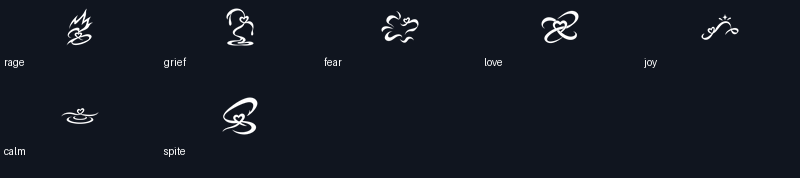
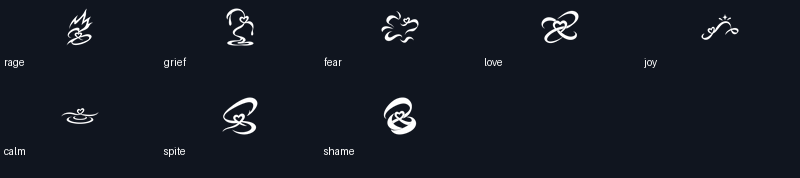
art: draw Shame feeling as an inward-folded ribbon

Changed region(s): [[0.4688, 0.5337, 0.5312, 0.7584], [0.4062, 0.8146, 0.4688, 0.8708]]

diff --git a/art/_archive/deliveries/2026-11-12/HANDOFF.md b/art/_archive/deliveries/2026-11-12/HANDOFF.md
@@ -2,13 +2,13 @@
 
 **Destination: `art/briefs-complete`; keep develop and the implementer branch untouched.** The prompt file was found on `claude/charming-gauss-hbq4n0` at `dd35e4b8`; it was safely fast-forwarded into this art branch. No force pushes. Fetch current refs and preserve any subsequent implementer work before continuing.
 
-Actual delivered: **22/77**. Every delivered image was generated with image_gen, shown in chat, technically exported, validated, committed and pushed before the next render. New art is review-candidate with production_approved:false. The exact delivered list is progress.json; production selections and source/reference hashes are manifest.json.
+Actual delivered: **23/77**. Every delivered image was generated with image_gen, shown in chat, technically exported, validated, committed and pushed before the next render. New art is review-candidate with production_approved:false. The exact delivered list is progress.json; production selections and source/reference hashes are manifest.json.
 
 ## Next work
 
-Next image: **`feeling-shame`**.
+Next image: **`feeling-pride`**.
 
-Remaining ordered queue: `feeling-shame`, `feeling-pride`, `feeling-despair`, `feeling-hope`, `feeling-mercy`, `feeling-cruelty`, `feeling-loneliness`, `feeling-belonging`, `feeling-dread`, `feeling-awe`, `feeling-longing`, `feeling-relief`, `feeling-contempt`, `feeling-guilt`, `feeling-jealousy`, `feeling-wonder`, `feeling-defiance`, `feeling-abandon`, `module-move`, `module-homing`, `module-swift`, `module-ether`, `module-right`, `module-left`, `module-time`, `module-inverse`, `module-size`, `module-random`, `module-at_once`, `module-wave`, `module-burst`, `module-aura`, `module-lance`, `module-fuse`, `module-return`, `module-volley`, `module-bloom`, `module-anchor`, `module-lure`, `module-shell`, `module-linger`, `module-quiet`, `module-silent`, `module-thread`, `module-cascade`, `module-tether`, `module-siphon`, `module-phantom`, `module-volatile`, `module-bastion`, `module-judgement_mark`, `module-halo`, `ui-revert`, `ui-practice`, `ui-felt`.
+Remaining ordered queue: `feeling-pride`, `feeling-despair`, `feeling-hope`, `feeling-mercy`, `feeling-cruelty`, `feeling-loneliness`, `feeling-belonging`, `feeling-dread`, `feeling-awe`, `feeling-longing`, `feeling-relief`, `feeling-contempt`, `feeling-guilt`, `feeling-jealousy`, `feeling-wonder`, `feeling-defiance`, `feeling-abandon`, `module-move`, `module-homing`, `module-swift`, `module-ether`, `module-right`, `module-left`, `module-time`, `module-inverse`, `module-size`, `module-random`, `module-at_once`, `module-wave`, `module-burst`, `module-aura`, `module-lance`, `module-fuse`, `module-return`, `module-volley`, `module-bloom`, `module-anchor`, `module-lure`, `module-shell`, `module-linger`, `module-quiet`, `module-silent`, `module-thread`, `module-cascade`, `module-tether`, `module-siphon`, `module-phantom`, `module-volatile`, `module-bastion`, `module-judgement_mark`, `module-halo`, `ui-revert`, `ui-practice`, `ui-felt`.
 
 Read `art/AGENTS.md`, `art/README.md`, `art/style-guide/PHC-Style-Guide.md`, `art/icons/STYLE-LOCK.md`, `art/briefs/GPT-PROMPTS-2026-11-12.md` and its linked current request/rules documents. Read queue.json in this folder: it contains exact prompts, reference paths and delivered flags. **Do not skip Both Hands just because its id exists:** its replacement is already delivered here and its stand-in is preserved in art/_archive/icons/perks/2026-11-12/. Do not rely on the Wick section heading13: the table and ART-REQUESTS enumerate11 (Rebuke, Both Hands, nine Calls).
 

diff --git a/art/_archive/deliveries/2026-11-12/README.md b/art/_archive/deliveries/2026-11-12/README.md
@@ -2,4 +2,4 @@
 
 Review candidates; production_approved:false. Source branch: claude/charming-gauss-hbq4n0, dd35e4b8. Destination: art/briefs-complete. The brief heading says13 Wick icons, but its table and ART-REQUESTS enumerate11. This run covers those11 plus25 feelings,38 modules and3 UI marks. Leon approved both test-set styles for continued production. Optional maps require current tile guides. No planned equipment or campaign maps are drawn.
 
-Delivered: 22/77. See progress.json, manifest.json, queue.json, prompts/, sources/, masters/v1/ and reviews/.
+Delivered: 23/77. See progress.json, manifest.json, queue.json, prompts/, sources/, masters/v1/ and reviews/.

diff --git a/art/icons/feelings/README.md b/art/icons/feelings/README.md
@@ -9,5 +9,6 @@ Pure white ink on transparency; image_gen drawings, technically separated and re
 - `feeling-joy.png`: Joy: the ribbon leaps in a high arc with a small spark at the peak.
 - `feeling-calm.png`: Calm: one long level stroke over two or three still circles, like a horizon over water.
 - `feeling-spite.png`: Spite: a hooked ribbon turning back on itself like a barb.
+- `feeling-shame.png`: Shame: the ribbon folds inward and hides its own end.
 
 Leon approved both test-set family styles for continued production. Individual images remain review candidates, production_approved:false.
